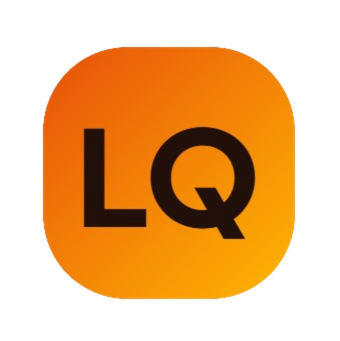
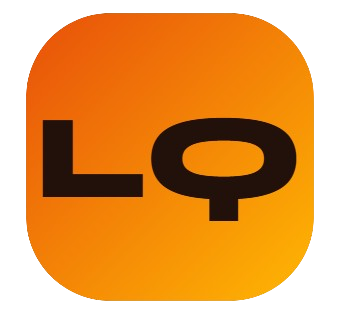
feat : update Code

diff --git a/style.css b/style.css
@@ -14,7 +14,7 @@
 body{font-family:'Plus Jakarta Sans',sans-serif;background:radial-gradient(circle at top left,rgba(255,183,3,.35),transparent 30%),linear-gradient(135deg,#1a100d,#451507 45%,#e8500a);color:#fff;overflow-x:hidden}
 .bg-pattern{position:fixed;inset:0;z-index:-2;background-image:linear-gradient(rgba(255,255,255,.045) 1px,transparent 1px),linear-gradient(90deg,rgba(255,255,255,.045) 1px,transparent 1px);background-size:36px 36px;mask-image:linear-gradient(to bottom,#000,transparent 90%)}
 .cursor-glow{position:fixed;width:280px;height:280px;background:rgba(255,183,3,.24);border-radius:50%;filter:blur(55px);pointer-events:none;z-index:-1;transform:translate(-50%,-50%)}
-.navbar{position:fixed;top:0;left:0;width:100%;padding:18px 8%;display:flex;justify-content:space-between;align-items:center;background:rgba(20,10,6,.78);backdrop-filter:blur(16px);border-bottom:1px solid var(--border);z-index:99}.logo{text-decoration:none;color:#fff;font-weight:800;font-size:22px}.logo span{display:inline-flex;align-items:center;justify-content:center;width:42px;height:42px;border-radius:14px;background:linear-gradient(135deg,var(--orange),var(--yellow));color:#22100a;margin-right:8px;box-shadow:0 0 26px rgba(255,183,3,.4)}nav a{color:#ffe6cc;text-decoration:none;margin-left:22px;font-size:14px;font-weight:600;transition:.3s}nav a:hover{color:var(--yellow)}
+.navbar{position:fixed;top:0;left:0;width:100%;padding:18px 8%;display:flex;justify-content:space-between;align-items:center;background:rgba(20,10,6,.78);backdrop-filter:blur(16px);border-bottom:1px solid var(--border);z-index:99}.logo{font-family:'Syne', sans-serif;text-decoration:none;color:#fff;font-weight:800;font-size:22px}nav a{color:#ffe6cc;text-decoration:none;margin-left:22px;font-size:14px;font-weight:600;transition:.3s}nav a:hover{color:var(--yellow)}
 .section{padding:110px 8% 75px;min-height:80vh}.hero{min-height:100vh;display:grid;grid-template-columns:1.15fr .85fr;gap:55px;align-items:center}.eyebrow{display:inline-block;padding:10px 18px;border-radius:999px;background:rgba(255,183,3,.15);border:1px solid rgba(255,183,3,.32);color:#ffd77a;font-weight:800;margin-bottom:20px}.hero h1{font-size:86px;line-height:1;font-weight:800;background:linear-gradient(90deg,#fff,var(--yellow));-webkit-background-clip:text;color:transparent}.hero h2{font-size:30px;margin:18px 0;color:#fff1d9}.hero-desc{font-size:18px;line-height:1.8;color:#ffe0c5;max-width:720px}.btn{display:inline-block;margin-top:28px;margin-right:12px;padding:15px 24px;border-radius:18px;text-decoration:none;font-weight:800;transition:.3s}.btn:hover{transform:translateY(-5px)}.primary{background:linear-gradient(135deg,var(--yellow),var(--orange));color:#23100a;box-shadow:0 15px 40px rgba(255,183,3,.3)}.secondary{color:#fff;border:1px solid var(--border);background:rgba(255,255,255,.1)}
 .hero-card{position:relative;min-height:500px;display:flex;align-items:center;justify-content:center}.phone-mockup{width:280px;height:560px;border-radius:42px;background:#211611;border:10px solid rgba(255,255,255,.12);box-shadow:0 35px 90px rgba(0,0,0,.45),0 0 60px rgba(255,183,3,.22);padding:24px;animation:floatPhone 4s ease-in-out infinite alternate}.screen-top{height:140px;border-radius:28px;background:linear-gradient(135deg,var(--orange),var(--yellow));margin-bottom:18px}.search-pill{background:#fff;color:#3a1b0d;border-radius:16px;padding:14px;margin-bottom:18px;font-size:13px}.product-grid{display:grid;grid-template-columns:1fr 1fr;gap:12px}.product-grid span{height:90px;border-radius:18px;background:linear-gradient(135deg,rgba(232,80,10,.75),rgba(255,183,3,.85));animation:pulse 2.8s infinite alternate}.coin-badge{margin-top:18px;background:rgba(255,183,3,.15);border:1px solid rgba(255,183,3,.35);padding:14px;border-radius:18px;color:#ffd77a;font-weight:800}.floating-tag{position:absolute;background:#fff;color:#351406;font-weight:800;padding:12px 18px;border-radius:999px;box-shadow:0 12px 35px rgba(0,0,0,.22);animation:bob 3s ease-in-out infinite alternate}.tag-1{top:95px;left:40px}.tag-2{right:30px;top:230px;animation-delay:.5s}.tag-3{bottom:100px;left:10px;animation-delay:1s}@keyframes floatPhone{to{transform:translateY(-20px) rotate(2deg)}}@keyframes pulse{to{filter:brightness(1.22)}}@keyframes bob{to{transform:translateY(-14px)}}
 .section-title{text-align:center;margin-bottom:36px}.section-title p{color:var(--yellow);letter-spacing:2px;text-transform:uppercase;font-weight:800}.section-title h2{font-size:46px;margin:8px 0;background:linear-gradient(90deg,#fff,var(--yellow));-webkit-background-clip:text;color:transparent}.section-title span{color:#ffe0c5}.embed-card{padding:16px;border-radius:30px;background:rgba(255,255,255,.1);border:1px solid var(--border);box-shadow:0 24px 80px rgba(0,0,0,.28);backdrop-filter:blur(18px)}.embed-card iframe{width:100%;height:560px;border:0;border-radius:22px;background:#fff}
@@ -22,6 +22,35 @@ body{font-family:'Plus Jakarta Sans',sans-serif;background:radial-gradient(circl
 .creator{background:linear-gradient(180deg,rgba(255,247,237,.96),rgba(255,238,210,.96));color:#2b160c;margin-top:50px}.creator .section-title h2{background:none;color:#2b160c;-webkit-background-clip:initial}.creator .section-title span{color:#6a3a1b}.creator-card{max-width:640px;margin:auto;text-align:center;background:#fff;color:#2b160c}.avatar-wrap{width:145px;height:145px;margin:0 auto 22px;border-radius:34px;padding:5px;background:linear-gradient(135deg,var(--orange),var(--yellow));box-shadow:0 14px 35px rgba(232,80,10,.22)}.avatar-wrap img{width:100%;height:100%;object-fit:cover;border-radius:28px;background:#f3f3f3}.creator-card h3{font-size:34px}.creator-card p{color:#774322;margin-top:8px}.socials{display:flex;justify-content:center;gap:16px;margin-top:26px}.socials a{width:52px;height:52px;border-radius:50%;display:flex;align-items:center;justify-content:center;background:linear-gradient(135deg,#fff7ed,#ffe0ad);color:var(--red);font-size:22px;text-decoration:none;box-shadow:0 8px 22px rgba(0,0,0,.12);transition:.3s}.socials a:hover{transform:translateY(-6px) rotate(8deg);background:linear-gradient(135deg,var(--yellow),var(--orange));color:#fff}
 footer{text-align:center;padding:28px;background:#180d08;color:#ffd6ab}.reveal{opacity:0;transform:translateY(42px);transition:1s}.reveal.active{opacity:1;transform:translateY(0)}
 @media(max-width:900px){.navbar{padding:14px 5%;flex-direction:column;gap:12px}nav{display:flex;flex-wrap:wrap;justify-content:center;gap:10px}nav a{margin:0}.section{padding:115px 5% 60px}.hero,.timeline{grid-template-columns:1fr}.hero h1{font-size:58px}.hero h2{font-size:24px}.embed-card iframe{height:380px}.hero-card{min-height:430px}.phone-mockup{width:230px;height:460px}.floating-tag{display:none}}
+
+.logo span {
+  display:inline-flex;
+    align-items:center;
+    justify-content:center;
+
+    width:48px;
+    height:48px;
+
+    font-family:'Syne', sans-serif;
+    font-size:20px;
+    font-weight:800;
+    line-height:1;
+
+    border-radius:14px;
+    background:linear-gradient(
+        135deg,
+        var(--orange),
+        var(--yellow)
+    );
+
+    color:#22100a;
+
+    margin-right:12px;
+
+    box-shadow:0 0 26px rgba(255,183,3,.4);
+
+    overflow:hidden;
+}
 
 /* Additional Process Sections */
 .flow-grid{
